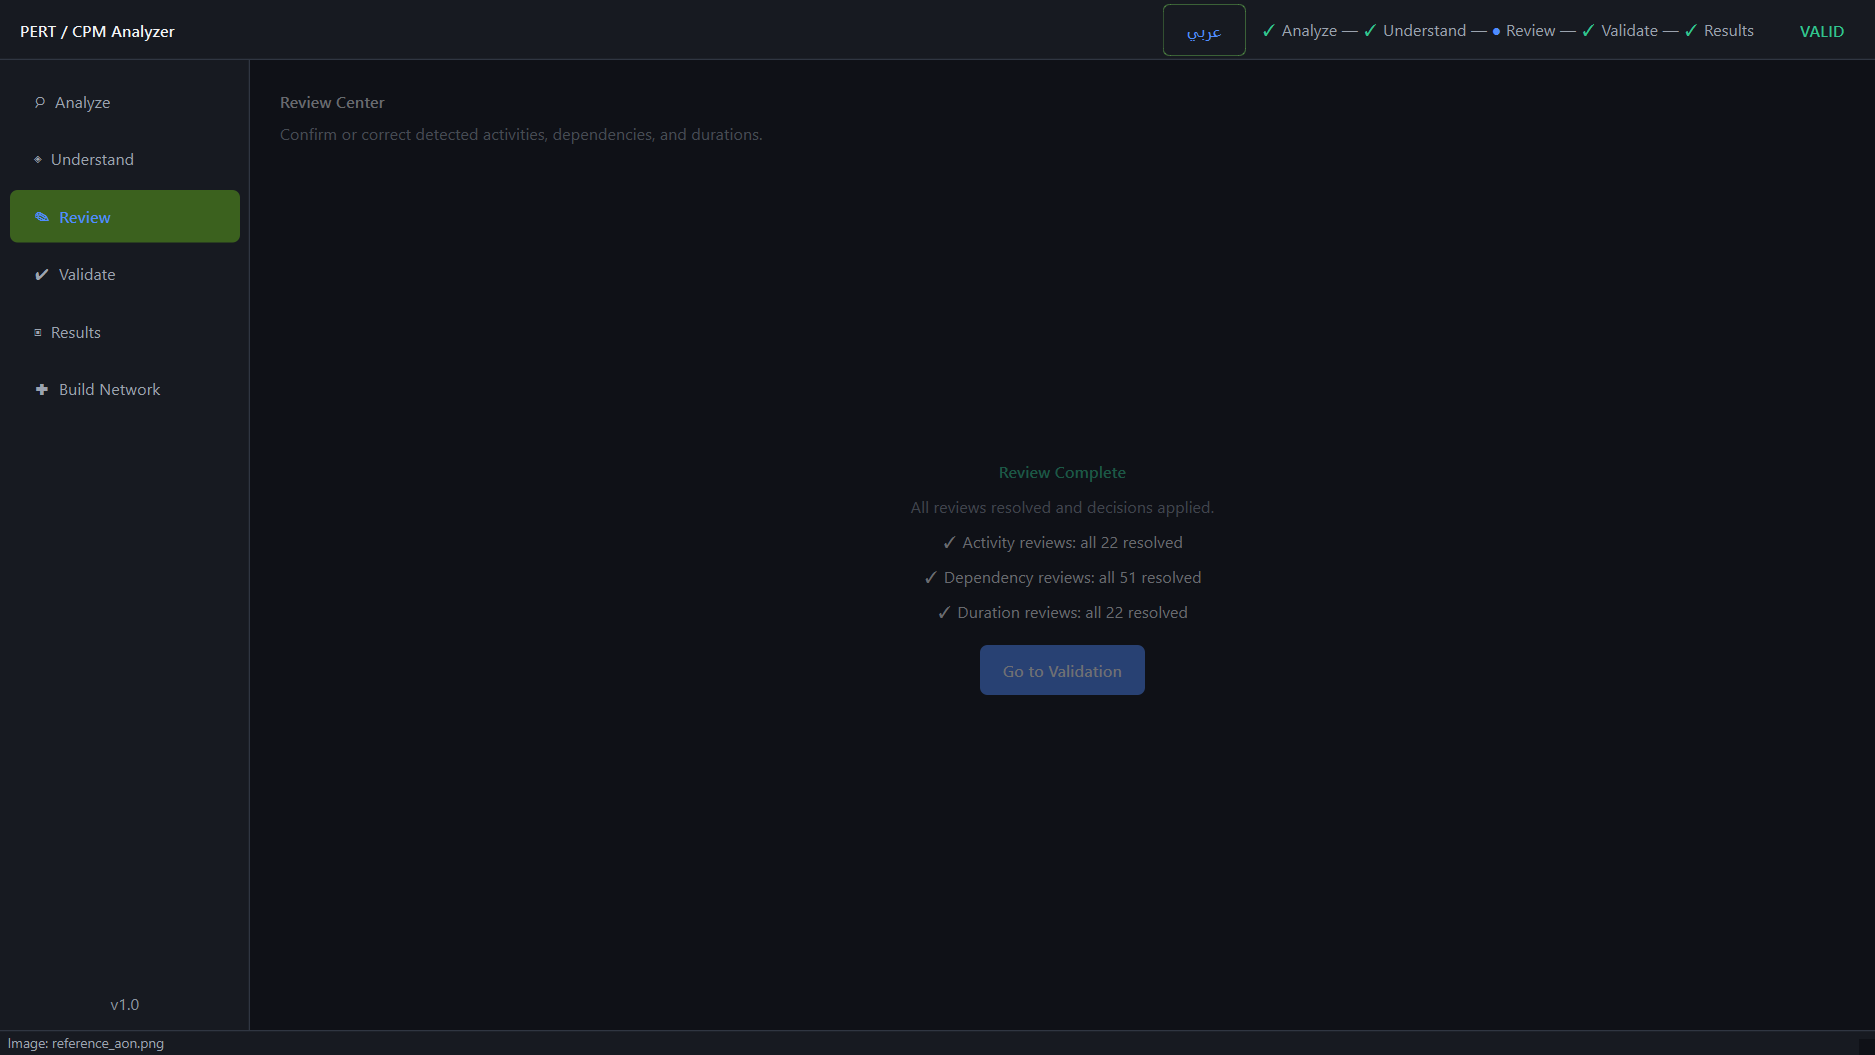
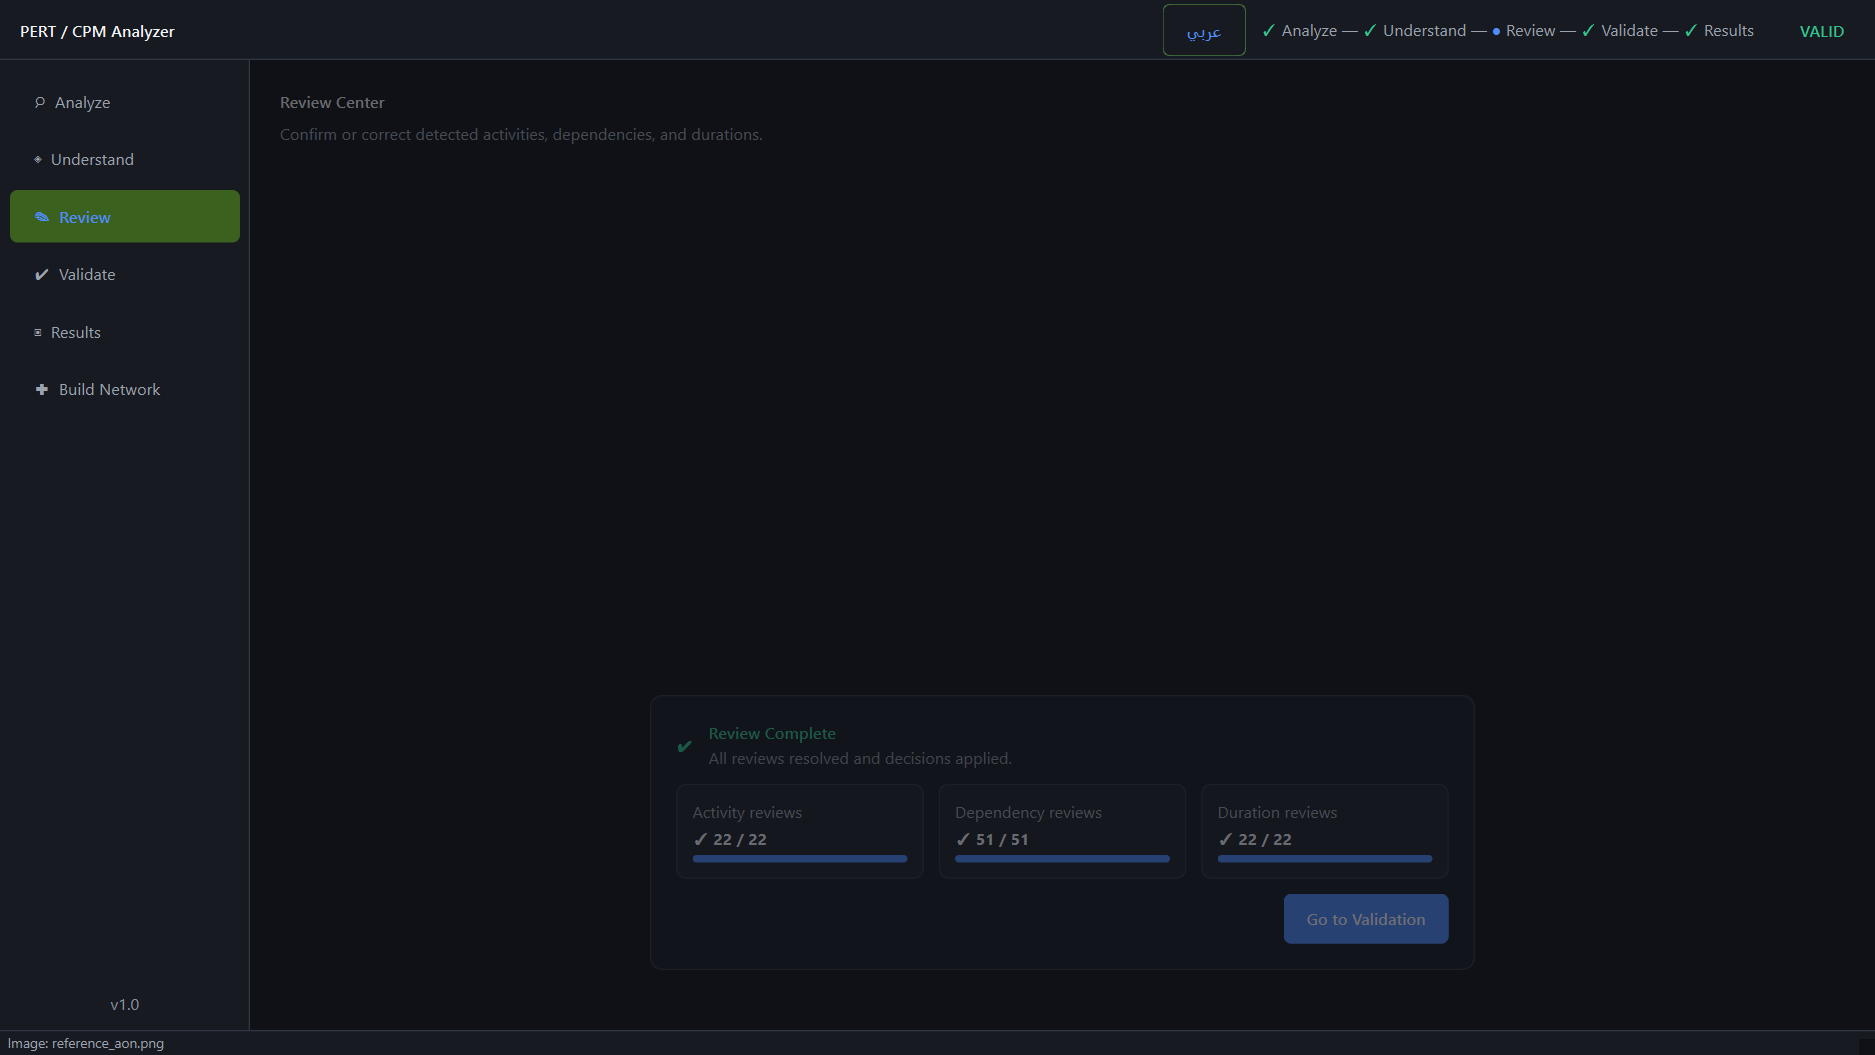
batch 2: review-complete summary card with per-category progress tiles

diff --git a/pert_analyzer/gui/pages/review_page.py b/pert_analyzer/gui/pages/review_page.py
@@ -17,6 +17,7 @@ from PySide6.QtCore import Qt, Signal
 from PySide6.QtGui import QFont
 from PySide6.QtWidgets import (
     QComboBox,
+    QFrame,
     QHBoxLayout,
     QLabel,
     QProgressBar,
@@ -58,10 +59,21 @@ from pert_analyzer.gui.themes.palette import (
     TEXT_SECONDARY,
     WARNING,
 )
-from pert_analyzer.gui.themes.spacing import LG, MD, RADIUS_MD, RADIUS_SM, SM, XL, XS, XXL
+from pert_analyzer.gui.themes.spacing import (
+    LG,
+    MD,
+    RADIUS_LG,
+    RADIUS_MD,
+    RADIUS_SM,
+    SM,
+    XL,
+    XS,
+    XXL,
+)
 from pert_analyzer.gui.themes.typography import (
     BODY_SMALL_FONT,
     BODY_FONT,
+    DISPLAY_FONT,
     LABEL_FONT,
     MUTED_FONT,
     STATUS_FONT,
@@ -124,57 +136,125 @@ class EmptyReviewState(QWidget):
 
 
 class ReviewCompleteState(QWidget):
-    """Shown when every review item has been resolved."""
+    """Shown when every review item has been resolved.
+
+    Renders a centered completion card (consistent with the Results KPI
+    language): header row, one progress tile per review category, and the
+    apply / go-to-validation actions.
+    """
 
     apply_requested = Signal()
     go_validation = Signal()
 
     def __init__(self, parent: QWidget | None = None):
         super().__init__(parent)
-        layout = QVBoxLayout(self)
-        layout.setContentsMargins(24, 24, 24, 24)
-        layout.setSpacing(10)
-        layout.addStretch()
+        outer = QVBoxLayout(self)
+        outer.setContentsMargins(24, 24, 24, 24)
+        outer.addStretch(stretch=2)
 
-        heading = QLabel("Review Complete")
-        heading.setFont(QFont(*TITLE_FONT))
-        heading.setStyleSheet(f"color: {SUCCESS};")
-        heading.setAlignment(Qt.AlignmentFlag.AlignCenter)
-        layout.addWidget(heading)
+        card = QFrame()
+        card.setObjectName("completeCard")
+        card.setStyleSheet(
+            f"QFrame#completeCard {{ background-color: {SURFACE};"
+            f" border: 1px solid {BORDER}; border-radius: {RADIUS_LG}px; }}"
+        )
+        card.setFixedWidth(660)
+        body = QVBoxLayout(card)
+        body.setContentsMargins(XL, XL, XL, XL)
+        body.setSpacing(MD)
 
+        # ── header row: icon + title + subtitle ─────────────────
+        head = QHBoxLayout()
+        head.setSpacing(MD)
+        icon = QLabel("\u2714")  # heavy check
+        icon.setFont(QFont(*DISPLAY_FONT))
+        icon.setStyleSheet(
+            f"color: {SUCCESS}; background: transparent; border: none;"
+        )
+        head.addWidget(icon)
+        title_col = QVBoxLayout()
+        title_col.setSpacing(2)
+        self._heading = QLabel("Review Complete")
+        self._heading.setFont(QFont(*TITLE_FONT))
+        self._heading.setStyleSheet(
+            f"color: {SUCCESS}; background: transparent; border: none;"
+        )
+        title_col.addWidget(self._heading)
         self._sub_heading = QLabel("")
         self._sub_heading.setFont(QFont(*LABEL_FONT))
-        self._sub_heading.setStyleSheet(f"color: {TEXT_MUTED};")
-        self._sub_heading.setAlignment(Qt.AlignmentFlag.AlignCenter)
-        layout.addWidget(self._sub_heading)
+        self._sub_heading.setStyleSheet(
+            f"color: {TEXT_MUTED}; background: transparent; border: none;"
+        )
+        title_col.addWidget(self._sub_heading)
+        head.addLayout(title_col)
+        head.addStretch()
+        body.addLayout(head)
 
-        self._category_rows: dict[ReviewCategory, QLabel] = {}
+        # ── category progress tiles ─────────────────────────────
+        tiles = QHBoxLayout()
+        tiles.setSpacing(MD)
+        self._tiles: dict[ReviewCategory, dict[str, Any]] = {}
         for cat in review_categories.CATEGORIES:
-            lbl = QLabel("")
-            lbl.setFont(QFont(*LABEL_FONT))
-            lbl.setAlignment(Qt.AlignmentFlag.AlignCenter)
-            self._category_rows[cat] = lbl
-            layout.addWidget(lbl)
+            tile = QFrame()
+            tile.setObjectName("completeTile")
+            tile.setStyleSheet(
+                f"QFrame#completeTile {{ background-color: {SURFACE_LIGHT};"
+                f" border: 1px solid {BORDER}; border-radius: {RADIUS_MD}px; }}"
+            )
+            tv = QVBoxLayout(tile)
+            tv.setContentsMargins(MD, MD, MD, MD)
+            tv.setSpacing(XS)
+            caption = QLabel("")
+            caption.setFont(QFont(*BODY_SMALL_FONT))
+            caption.setStyleSheet(
+                f"color: {TEXT_SECONDARY}; background: transparent; border: none;"
+            )
+            count = QLabel("")
+            count.setFont(QFont(*KPI_FONT))
+            count.setStyleSheet(
+                f"color: {TEXT}; background: transparent; border: none;"
+            )
+            bar = QProgressBar()
+            bar.setTextVisible(False)
+            bar.setFixedHeight(6)
+            bar.setRange(0, 1)
+            bar.setValue(0)
+            bar.setStyleSheet(
+                f"QProgressBar {{ background-color: {SURFACE};"
+                f" border: none; border-radius: 3px; }}"
+                f"QProgressBar::chunk {{ background-color: {ACCENT};"
+                f" border-radius: 3px; }}"
+            )
+            tv.addWidget(caption)
+            tv.addWidget(count)
+            tv.addWidget(bar)
+            self._tiles[cat] = {"caption": caption, "count": count, "bar": bar}
+            tiles.addWidget(tile, stretch=1)
+        body.addLayout(tiles)
 
-        layout.addSpacing(8)
-
+        # ── actions ─────────────────────────────────────────────
         self._apply_btn = QPushButton("Apply & Validate")
         self._apply_btn.setObjectName("primary")
         self._apply_btn.clicked.connect(self.apply_requested.emit)
-        layout.addWidget(self._apply_btn, alignment=Qt.AlignmentFlag.AlignCenter)
-
         self._go_btn = QPushButton("Go to Validation")
         self._go_btn.setObjectName("primary")
         self._go_btn.clicked.connect(self.go_validation.emit)
-        layout.addWidget(self._go_btn, alignment=Qt.AlignmentFlag.AlignCenter)
         self._go_btn.hide()
+        actions = QHBoxLayout()
+        actions.addStretch()
+        actions.addWidget(self._apply_btn)
+        actions.addWidget(self._go_btn)
+        body.addLayout(actions)
 
-        layout.addStretch()
+        outer.addWidget(card, alignment=Qt.AlignmentFlag.AlignHCenter)
+        outer.addStretch()
 
     def populate(self, session: Any) -> None:
         review_session = getattr(session, "review_session", None)
         applied = bool(getattr(session, "has_applied_reviews", False))
         ar = widget_language(self) == UiLanguage.ARABIC
+
+        self._heading.setText("اكتملت المراجعة" if ar else "Review Complete")
         if applied:
             self._sub_heading.setText(
                 "تم حل جميع عناصر المراجعة وتطبيق القرارات." if ar
@@ -191,23 +271,24 @@ class ReviewCompleteState(QWidget):
             self._go_btn.hide()
 
         for cat in review_categories.CATEGORIES:
+            tile = self._tiles[cat]
             items = _category_items(review_session, cat)
             pending = pending_count(review_session, cat) if review_session is not None else 0
             label = _CATEGORY_LABELS_AR[cat] if ar else _CATEGORY_LABELS[cat]
             if not items:
-                self._category_rows[cat].setText(
-                    f"\u2013 {label}: لا توجد عناصر" if ar else f"\u2013 {label}: no items"
-                )
-            elif pending == 0:
-                self._category_rows[cat].setText(
-                    f"\u2713 {label}: تم حل جميع العناصر ({len(items)})" if ar
-                    else f"\u2713 {label}: all {len(items)} resolved"
-                )
+                tile["caption"].setText(label)
+                tile["count"].setText("\u2013" if not ar else "—")
+                tile["bar"].setRange(0, 1)
+                tile["bar"].setValue(0)
+                continue
+            resolved = len(items) - pending
+            tile["caption"].setText(label)
+            if pending == 0:
+                tile["count"].setText(f"\u2713 {resolved} / {len(items)}")
             else:
-                self._category_rows[cat].setText(
-                    f"{label}: {pending} ما زال معلقًا" if ar
-                    else f"{label}: {pending} still pending"
-                )
+                tile["count"].setText(f"{resolved} / {len(items)}")
+            tile["bar"].setRange(0, len(items))
+            tile["bar"].setValue(resolved)
 
     def set_busy(self, busy: bool) -> None:
         self._apply_btn.setEnabled(not busy)

diff --git a/tests/gui/test_review_center.py b/tests/gui/test_review_center.py
@@ -348,8 +348,8 @@ def test_review_complete_state_after_all_resolved(
             if page.is_complete:
                 break
     assert page.is_complete
-    row = page._complete_state._category_rows[ReviewCategory.ACTIVITIES].text()
-    assert "all 2 resolved" in row
+    count_label = page._complete_state._tiles[ReviewCategory.ACTIVITIES]["count"].text()
+    assert "2 / 2" in count_label
     assert session.pending_review_total() == 0
 
 
